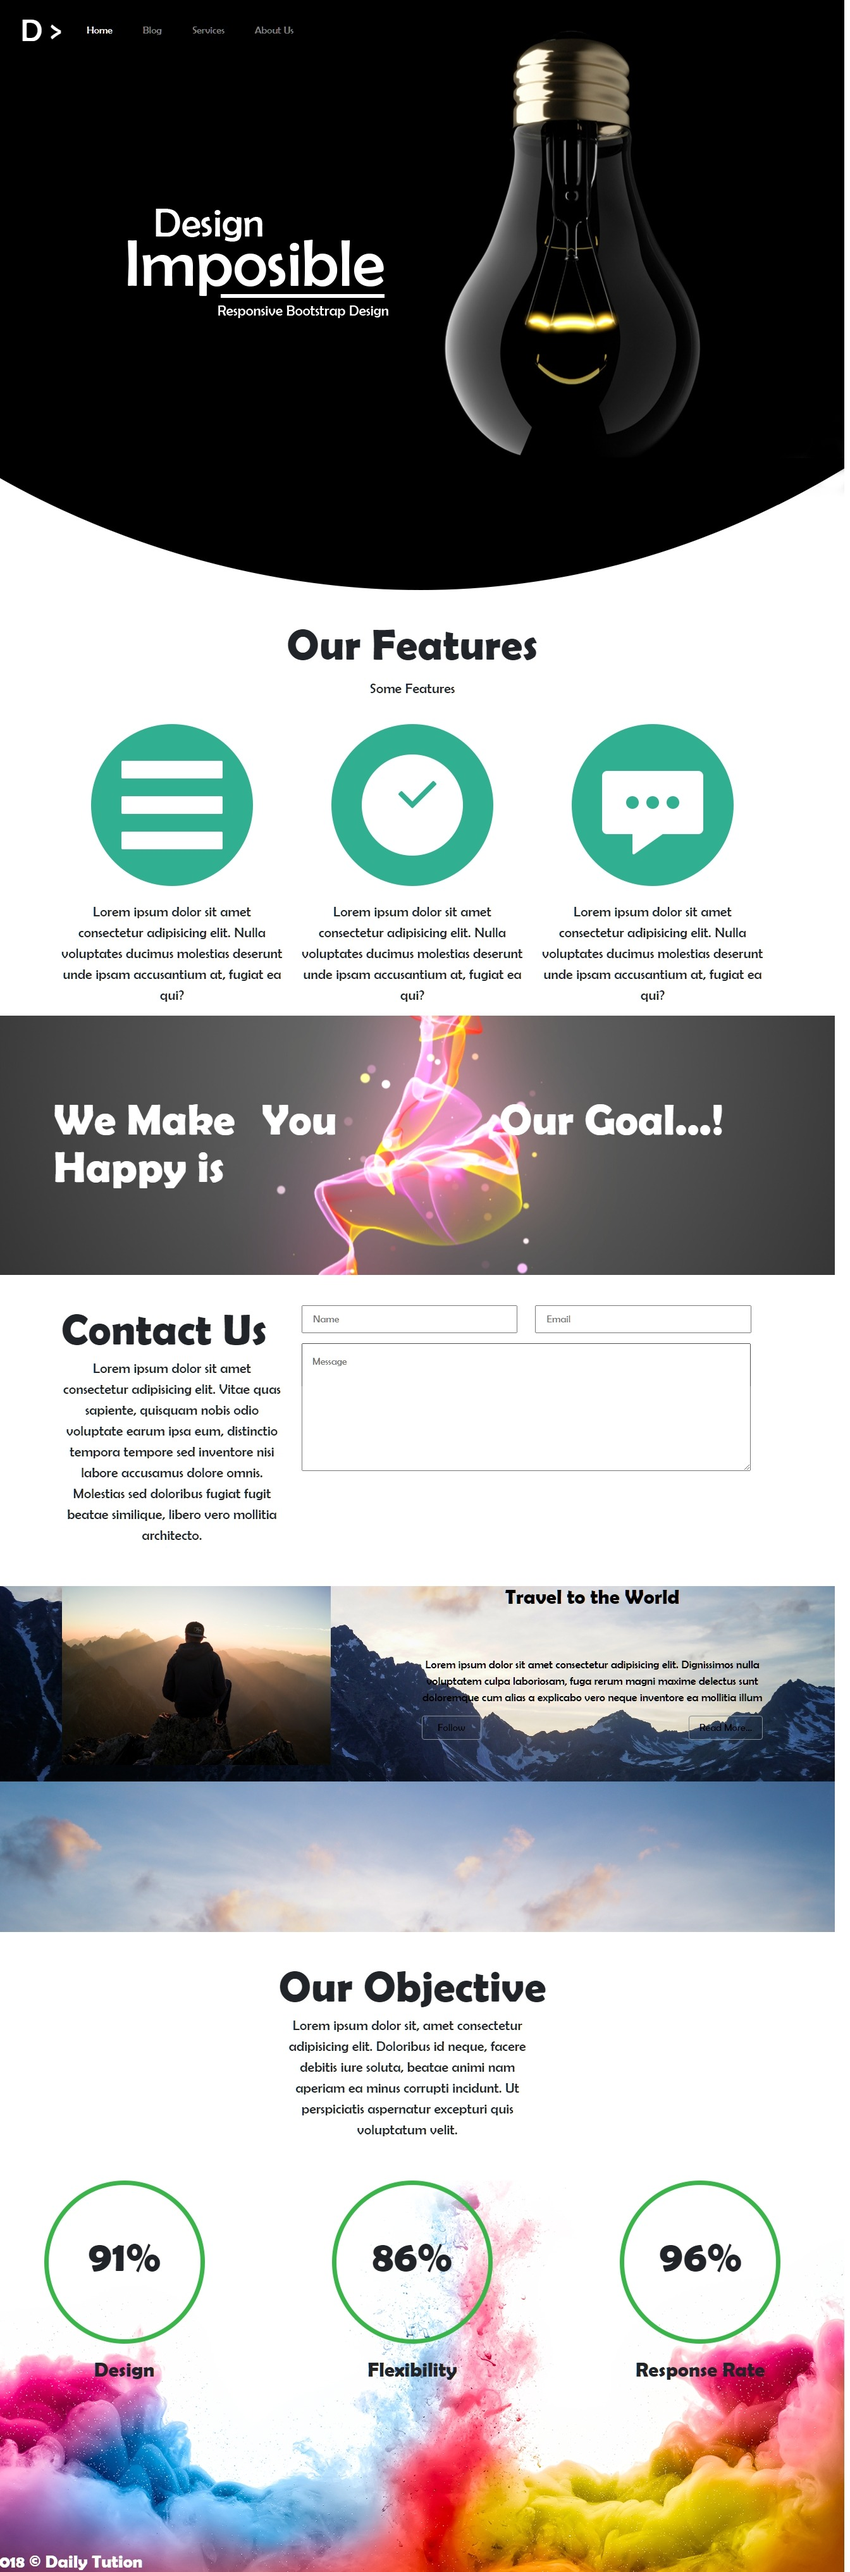
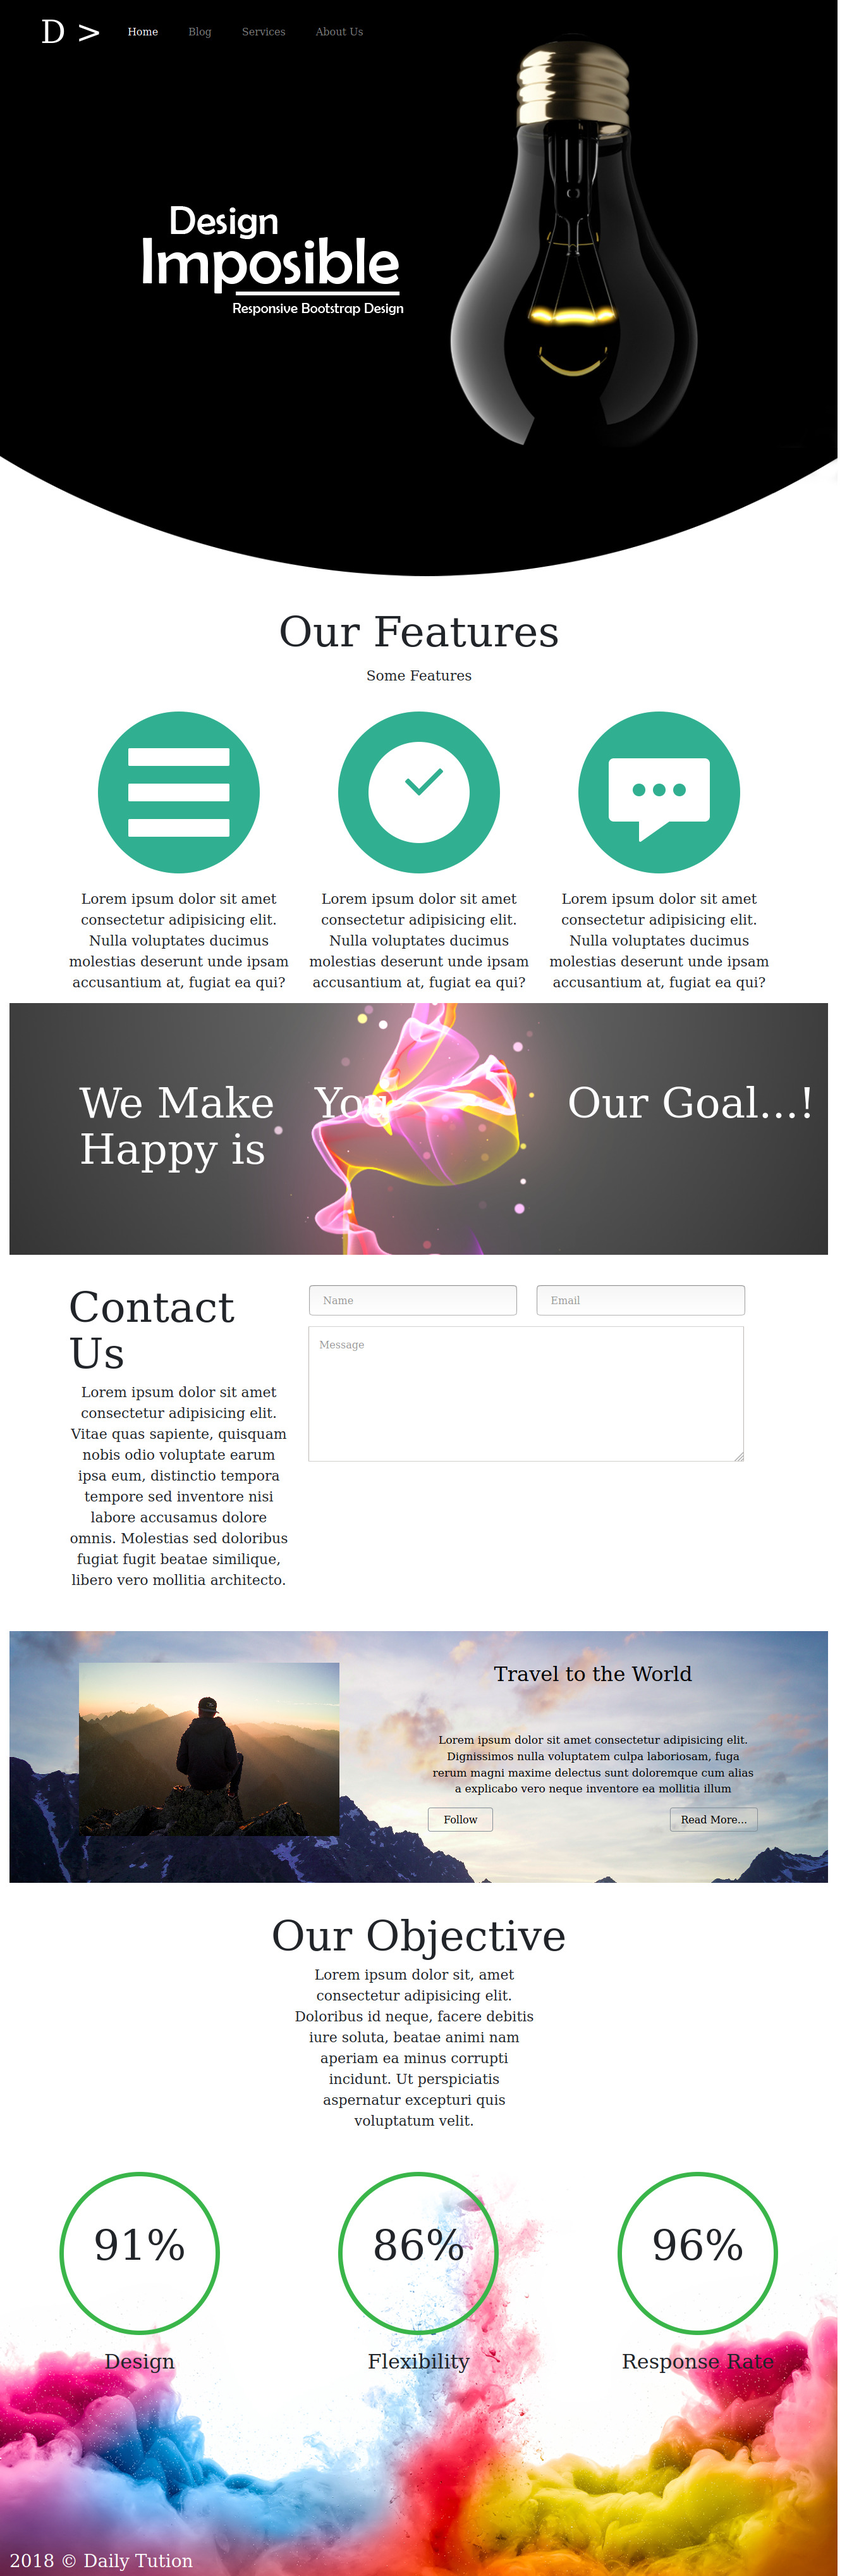
updating files

diff --git a/home.html b/home.html
@@ -61,13 +61,13 @@
 <div class="container text-center pt-4">
   <div class="row">
     <div class="col-4">
-      <img src="img/if_menu.png" class="img-fluid">
+      <img src="img/if_Menu.png" class="img-fluid">
     </div>
     <div class="col-4">
       <img src="img/if_Clock.png" class="img-fluid">
     </div>
     <div class="col-4">
-      <img src="img/if_chat.png" class="img-fluid">
+      <img src="img/if_Chat.png" class="img-fluid">
     </div>
   </div>
 </div>
@@ -134,7 +134,7 @@
   <div class="parallax2 text-center">
     <div class="row">
       <div class="col-1"></div>
-      <div class="col-4">
+      <div class="col-4" style="margin-top: 50px;">
         <img src="img/pexels-photo2.jpeg" class="img-fluid" alt="">
       </div>
       <div class="col-1"></div>

diff --git a/css/style.css b/css/style.css
@@ -52,7 +52,7 @@ textarea{
 }
 
 .parallax2{
-    height: 40vw;
+    height: 30vw;
     background: url('../img/pexels-photo1.jpeg')no-repeat 50%;
     background-size: cover;
     background-attachment: fixed;
@@ -61,6 +61,7 @@ textarea{
 .parallax2 h2{
     color: black;
     padding-bottom: 5vw;
+    margin-top: 50px;
 }
 
 .parallax2 p{
@@ -92,7 +93,7 @@ textarea{
 }
 
 .footer{
-    background-image: url('../img/footer.png');
+    background-image: url('../img/Footer.png');
     background-size: cover;
     background-position: center;
     height: 100vh;

diff --git a/README.md b/README.md
@@ -13,4 +13,4 @@ This project was developed with the following technologies:
 * Create with Bootstrap framework for responsive webdesign
 
 # Preview
-![alt img](https://github.com/selvajayarose/selvajayarose.github.io/blob/master/img/designrespo.jpg)# DesignResponsive
+![alt img](https://github.com/selvajayarose/DesignResponsive/blob/main/img/fullscreen.jpg?raw=true)# DesignResponsive
